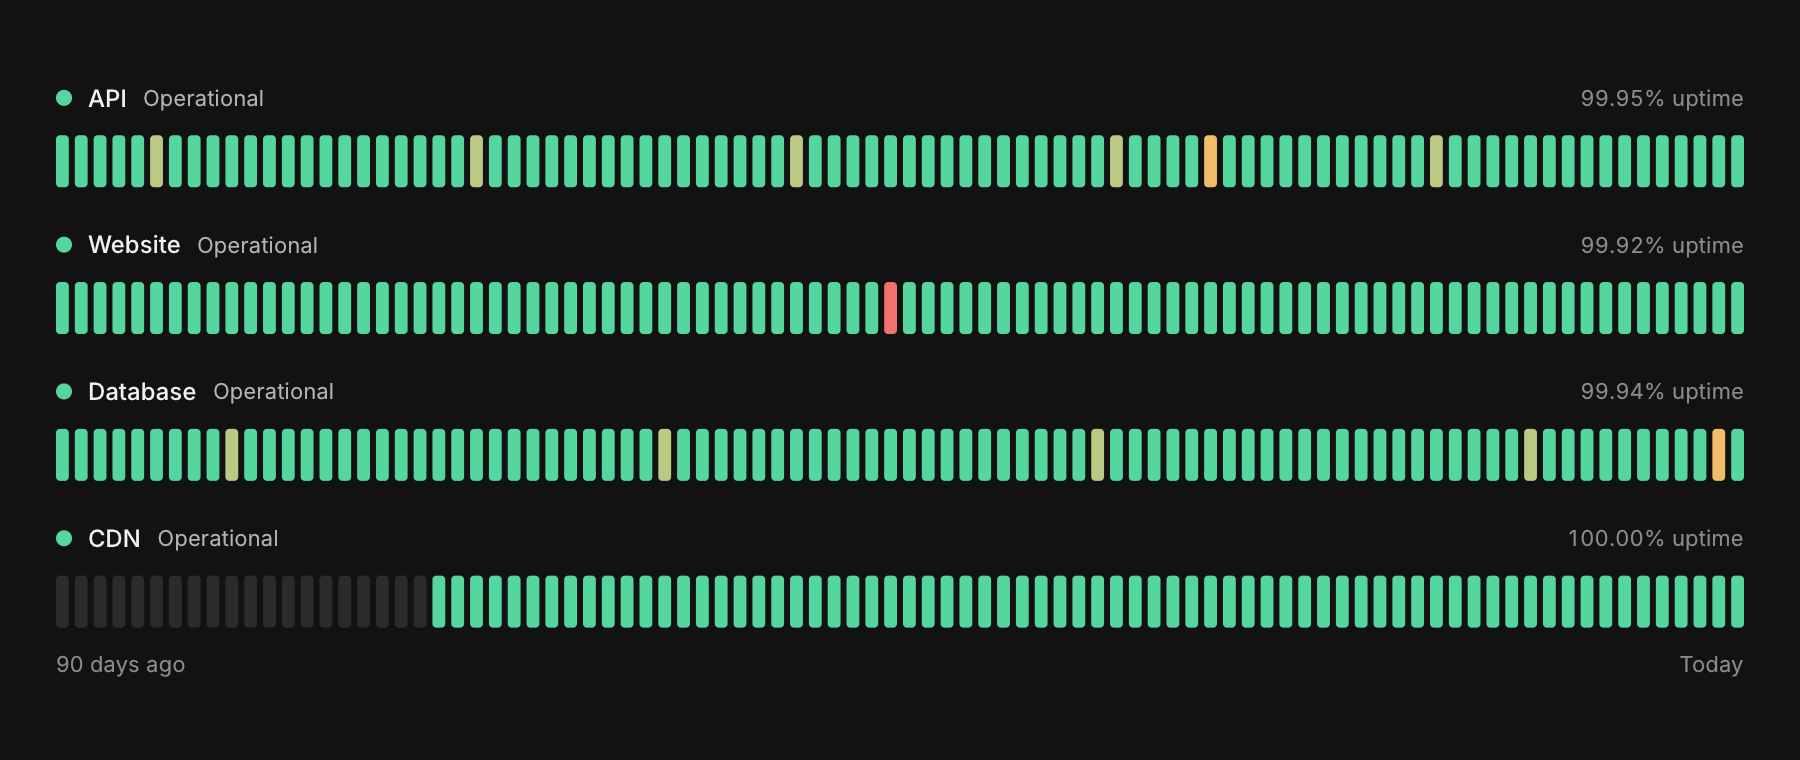
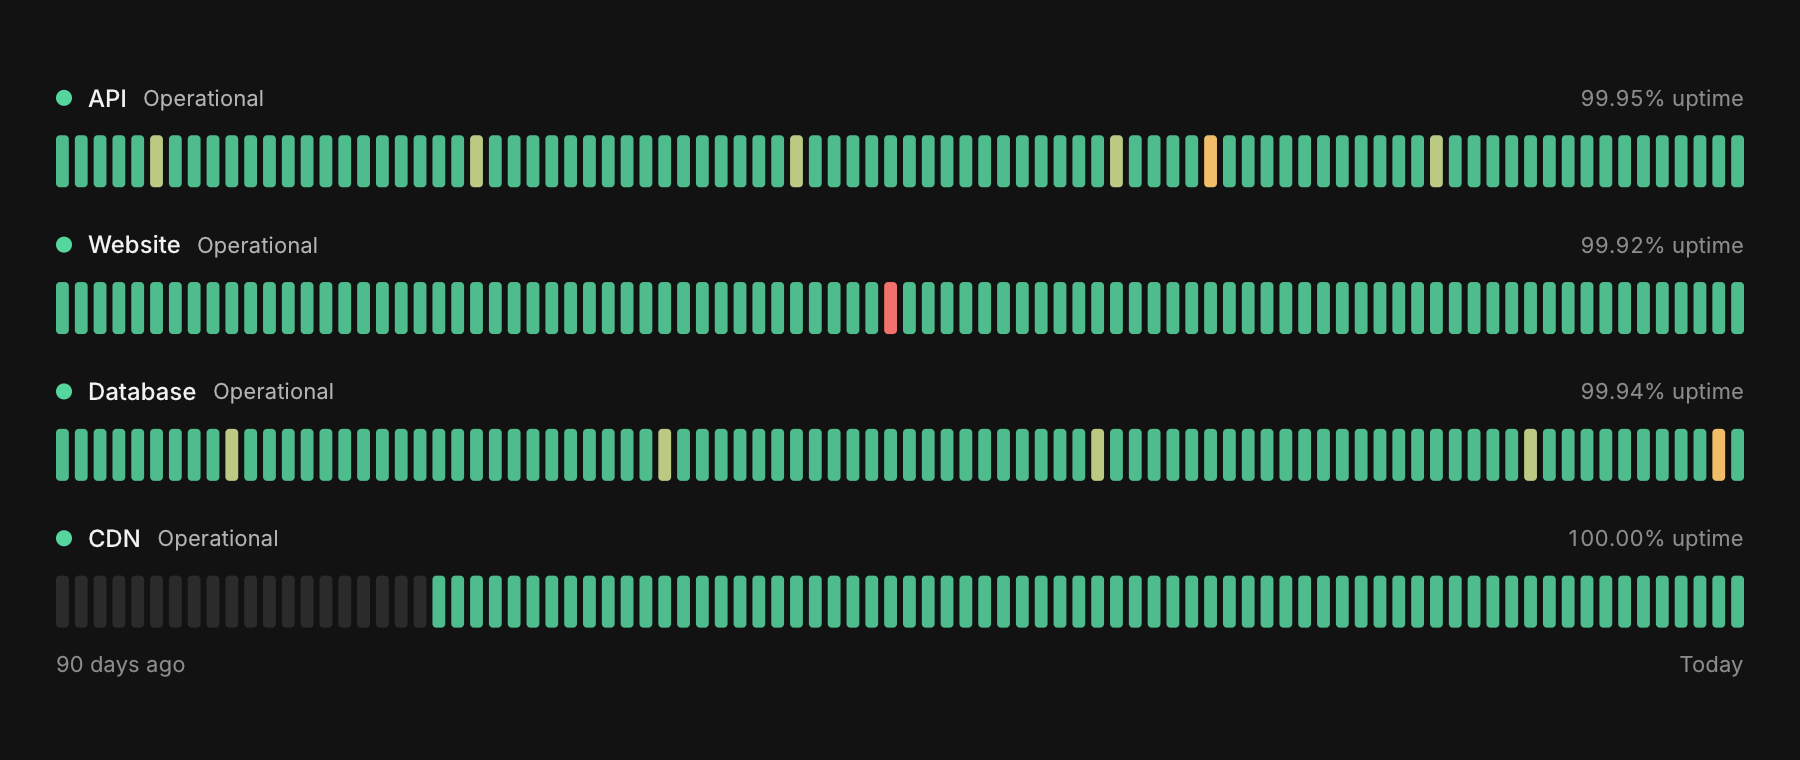
Uptime bars: a slightly softer healthy green
Hundreds of full-strength green days drowned out the rare incident. The
bar of a healthy day (99.9% and up) is now mixed a little toward the
surface: 12% in dark mode, 7% in light mode, where the same mix would
lighten it more. The status dot and every other color stay as they were.

diff --git a/src/cui_devviews.c b/src/cui_devviews.c
@@ -40,6 +40,8 @@ static void cui__paint_uptime(cui_ctx *ui, cui_node *nd, void *data) {
         float v = p->days[p->first + k];
         float x = r.x + k * (p->bw + p->gap);
         cui_color c = cui__up_color(ui, v);
+        /* healthy days sit back a little, so the rare bad day stands out among hundreds of good ones */
+        if (v >= 0.999f) c = cui_mix(c, CUI_C(ui, SURFACE), ui->mode == CUI_THEME_DARK ? 0.12f : 0.07f);
         if (p->hover >= 0 && k != p->hover) c = cui_alpha(c, 0.75f);
         float inset = k == p->hover ? 0 : 2;
         cui_draw_rect(ui, (cui_rect){ x, r.y + inset, p->bw, r.h - inset * 2 }, CUI_CORNERS(CUI_MIN(2.0f, p->bw * 0.5f)), c);

diff --git a/CHANGELOG.md b/CHANGELOG.md
@@ -18,6 +18,7 @@ What changed in CUI, newest first. Every component mentioned here runs live in t
 - **Treemap and radar.** Treemap tiles are neutral, graded by size, with 3 point gaps, a label, a value and a share figure, and only the hovered or selected tile in the accent; small tiles keep a compact value. New `selected` option: a click selects a tile and a second click clears it. The radar has hairline rings, light fills under crisp outlines, points only on the series you point at (the last one otherwise) with a chip of the hovered value, and ring values kept off the lines.
 - **Sankey** nodes are slim (6 points) and colored by meaning, with the new `node_colors` option and the palette or neutral gray for the rest. Flows fade from their source's color to their target's, hovering a node or a flow lights its whole path upstream and downstream, and labels sit beside the nodes as the name over the value and share, with no plates over the flows.
 - **Gantt chart** bars are colored by state (done, active, planned) with their progress inside and a percentage at the end; planned bars are dashed and tinted. A new `state` field on `cui_gantt_task` sets it, and its zero value works it out from the progress and `today`. Dependencies are soft curves with small arrowheads, today is an accent line with a "Today" chip, weekends are faintly shaded, and a milestone is an outlined diamond with its name and date.
+- **Uptime bars**: healthy days are a slightly softer green, so incidents stand out more.
 
 ### Fixed
 

diff --git a/docs/components-more.md b/docs/components-more.md
@@ -1320,7 +1320,7 @@ const cui_uptime_service services[] = { { "API", api_days, 90 }, { "Website", we
 cui_uptime(ui, "status", services, 2, .last_day = today);
 ```
 
-Each service shows its state from its last day (operational, degraded or outage) and its uptime over the days with data. Below it is one bar per day, colored by availability: green from 99.9%, olive from 99%, amber from 95%, red below that, and gray without data. A hover lifts the bar and shows its date and uptime, and the result names the service and day under the pointer. On a narrow panel only the most recent days that fit are shown, newest on the right.
+Each service shows its state from its last day (operational, degraded or outage) and its uptime over the days with data. Below it is one bar per day, colored by availability: a soft green from 99.9%, olive from 99%, amber from 95%, red below that, and gray without data. A hover lifts the bar and shows its date and uptime, and the result names the service and day under the pointer. On a narrow panel only the most recent days that fit are shown, newest on the right.
 
 ### Time histogram
 
